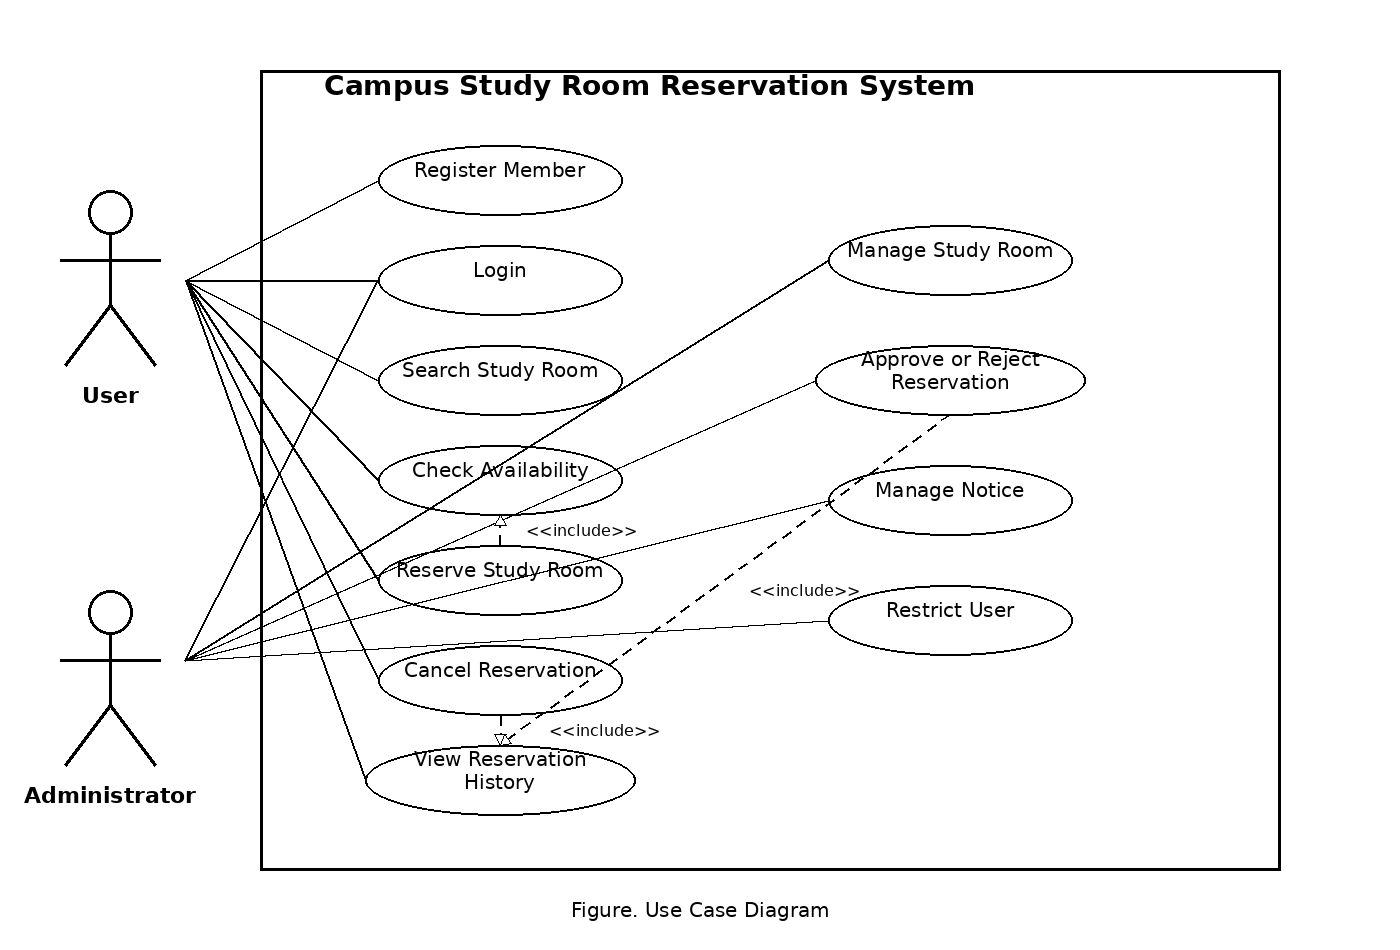
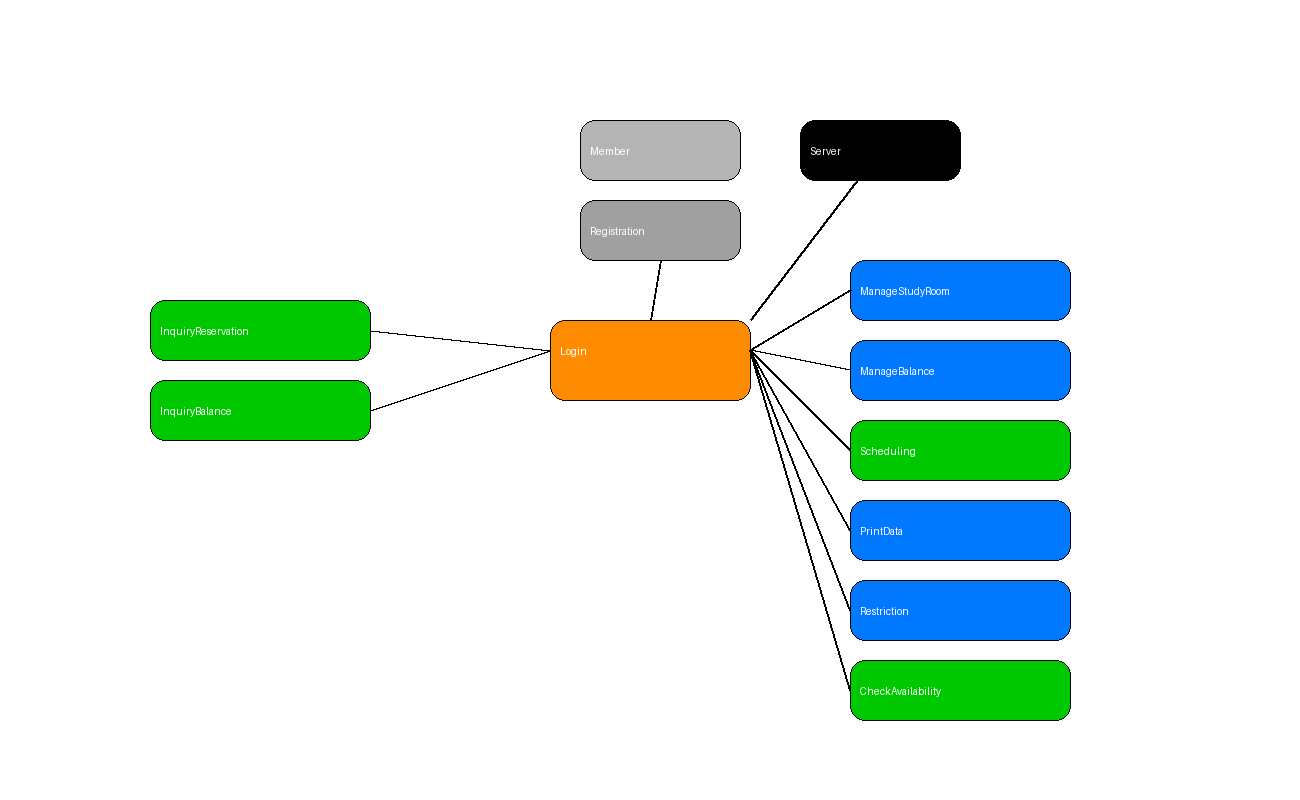
Add files via upload

diff --git a/Design_22212039_강명구.md b/Design_22212039_강명구.md
@@ -1,0 +1,200 @@
+# Campus Study Room Reservation System
+## Design
+
+### Student No
+22212039
+
+### Name
+강명구
+
+### E-Mail
+example@email.com
+
+---
+
+# [ Revision history ]
+
+| Revision date | Version # | Description | Author |
+|---|---|---|---|
+| 2026/05/26 | 1.00 | 초기 버전 | 강명구 |
+| 2026/05/26 | 1.01 | 클래스 관계 설정 | 강명구 |
+| 2026/05/26 | 1.02 | 기능 수정 | 강명구 |
+
+---
+
+# = Contents =
+
+1. Introduction  
+2. Class diagram  
+3. Sequence diagram  
+4. State machine diagram  
+5. Implementation requirements  
+6. Glossary  
+7. References  
+
+---
+
+# 1. Introduction
+
+대학 내 스터디룸은 팀 프로젝트, 시험공부, 발표 준비 등 다양한 학습 활동을 위해 사용된다. 그러나 기존 방식은 스터디룸의 사용 가능 여부를 직접 확인해야 하거나, 예약 시간이 중복되는 문제가 발생할 수 있다. 이러한 문제를 해결하기 위해 캠퍼스 스터디룸 예약 시스템을 설계하게 되었다.
+
+이 시스템은 사용자가 원하는 날짜와 시간에 예약 가능한 스터디룸을 검색하고, 예약을 진행하며, 자신의 예약 내역을 확인하거나 취소할 수 있도록 한다. 또한 관리자는 스터디룸 정보 관리, 예약 승인 및 거절, 공지사항 관리, 사용자 제한 등의 기능을 수행할 수 있다.
+
+본 문서는 Analysis 이후 진행되는 Design 단계에 대한 문서이다. 실제 System 구현에 직접적으로 관여하는 요소들의 구조를 확정하고, Class Diagram, Sequence Diagram, State Machine Diagram, Implementation Requirements 등을 구체적으로 정의한다. 본 문서의 세부 내용은 실제 Java 기반 구현 시 소스코드의 구조와 기능 흐름에 반영되는 것을 목적으로 한다.
+
+---
+
+# 2. Class diagram
+
+아래의 그림은 시스템의 Class Diagram을 표현한 그림이다.
+
+![Class Diagram](./final_class_diagram.png)
+
+아래의 표는 위의 Class Diagram에서 표현한 Class들에 대한 설명이다.
+
+
+| Class Name | Explanation |
+|---|---|
+| Login | 시스템을 실행한 이후 사용자가 가장 먼저 접근하게 되는 클래스이다. 사용자가 입력한 ID와 Password 값을 전달받아 회원 정보를 확인하고, 로그인 성공 여부를 판별한다. 로그인에 성공하면 사용자의 권한에 맞는 Main 화면으로 이동시키고, 로그인에 실패하면 오류 메시지를 출력한다. 또한 관리자 계정과 일반 회원 계정을 구분하여 서로 다른 기능 접근 권한을 제공한다. |
+| Registration | 회원가입 기능을 담당하는 클래스이다. 사용자가 입력한 학번, 비밀번호, 이름, 학과, 이메일 등의 정보를 전달받아 회원가입 절차를 진행한다. 회원가입 과정에서 ID 중복 여부를 검사하며, 비밀번호 확인 입력값과 일치 여부도 함께 검사한다. 모든 조건이 정상적으로 충족되면 Server 클래스에 회원 정보를 저장하고 회원가입 완료 메시지를 출력한다. |
+| Member | 시스템을 사용하는 회원들의 기본 정보를 저장하는 클래스이다. 회원의 ID, Password, 이름, 학과, 이메일, 권한 등의 Attribute를 가진다. 로그인 기능이나 예약 기능에서 사용자의 정보를 참조할 때 해당 클래스의 객체를 사용한다. 또한 일반 회원과 관리자를 구분하기 위한 권한 정보도 포함된다. |
+| Server | 실제 네트워크 서버를 직접 구현하지 않는 대신 서버와 유사한 역할을 수행하는 클래스이다. 회원 정보, 스터디룸 정보, 예약 정보, 공지사항 정보를 저장하고 관리한다. 다른 기능 클래스들은 필요한 데이터를 요청할 때 Server 클래스를 통해 정보를 가져온다. 시스템 전체 데이터의 저장소 역할을 수행하는 핵심 클래스이다. |
+| StudyRoom | 캠퍼스 내 스터디룸에 대한 정보를 저장하는 클래스이다. 스터디룸 번호, 위치, 최대 수용 인원, 예약 가능 여부 등의 Attribute를 가진다. SearchRoom 클래스나 Reservation 클래스는 해당 클래스의 정보를 사용하여 예약 가능한 스터디룸을 사용자에게 제공한다. 관리자는 이 클래스의 데이터를 수정하여 새로운 스터디룸을 추가하거나 기존 정보를 변경할 수 있다. |
+| SearchRoom | 사용자가 원하는 날짜, 시간, 인원 수 조건에 맞는 스터디룸을 검색하는 기능을 담당하는 클래스이다. 사용자가 입력한 조건을 기반으로 Server 클래스에 저장된 스터디룸 정보를 조회한다. 검색 결과에서는 예약 가능한 스터디룸과 이미 예약된 스터디룸을 구분하여 사용자에게 출력한다. 또한 조건에 맞는 스터디룸이 없는 경우에는 관련 메시지를 출력한다. |
+| CheckAvailability | 특정 스터디룸의 예약 가능 시간을 확인하는 기능을 담당하는 클래스이다. 사용자가 스터디룸을 선택하면 해당 클래스는 예약 데이터를 조회하여 현재 예약 가능한 시간대와 이미 예약된 시간대를 구분하여 출력한다. 예약 가능한 시간은 초록색과 같은 방식으로 표시하고, 예약이 완료된 시간은 다른 색으로 표시하여 사용자가 쉽게 구분할 수 있도록 한다. |
+| Reservation | 사용자가 스터디룸 예약을 진행할 때 사용하는 클래스이다. 선택한 스터디룸, 날짜, 시간대, 사용 목적 등의 정보를 저장하며 예약 절차를 수행한다. 예약 과정에서 중복 예약 여부를 검사하고, 이미 예약된 시간인 경우 예약을 제한한다. 예약이 성공적으로 완료되면 Server 클래스에 예약 정보를 저장하고 예약 완료 메시지를 출력한다. |
+| ReservationHistory | 로그인한 사용자의 예약 내역을 불러와 화면에 출력하는 클래스이다. 사용자는 이 기능을 통해 자신이 예약한 스터디룸 목록과 예약 상태를 확인할 수 있다. 또한 예약 시간이 지나지 않은 경우 예약 취소 기능을 수행할 수 있다. 예약 취소가 완료되면 해당 예약 상태를 변경하고 사용자 화면에 변경된 정보를 다시 출력한다. |
+| ManageStudyRoom | 관리자만 사용할 수 있는 스터디룸 관리 기능을 담당하는 클래스이다. 관리자는 새로운 스터디룸을 등록하거나 기존 스터디룸의 위치, 인원 수, 사용 가능 여부 등을 수정할 수 있다. 또한 사용하지 않는 스터디룸을 삭제하는 기능도 수행한다. 수정된 정보는 Server 클래스에 저장되어 시스템 전체에 반영된다. |
+| ManageNotice | 관리자가 공지사항을 등록, 수정, 삭제하는 기능을 담당하는 클래스이다. 시스템 메인 화면에 출력되는 공지사항 정보를 관리하며, 사용자들은 해당 공지사항을 통해 스터디룸 사용 관련 안내사항을 확인할 수 있다. 관리자는 새로운 공지를 작성하거나 기존 공지를 수정 및 삭제할 수 있다. |
+| RestrictUser | 예약 규정을 반복적으로 위반한 사용자에게 제한을 부여하는 기능을 담당하는 클래스이다. 노쇼(No-show) 또는 부적절한 예약 사용 기록이 누적된 사용자를 일정 기간 동안 예약 불가능 상태로 변경한다. 제한이 적용된 사용자는 예약 기능을 사용할 수 없으며, 관리자만 제한을 해제할 수 있다. |
+
+
+---
+
+# 3. Sequence diagram
+
+아래에 나오는 그림들은 Analysis에서 표현한 기능들을 Sequence Diagram으로 표현한 그림들이다.
+
+## 3.1 Login Sequence Diagram
+
+![Login Sequence Diagram](./seq_1_login.png)
+
+위의 그림은 시스템 실행 후 로그인 기능을 수행할 때를 표현한 Sequence Diagram이다. 사용자는 ID와 Password를 입력하고 LoginUI를 통해 Login 클래스에 로그인 검사를 요청한다. Login 클래스는 Server에 저장되어 있는 회원 정보를 조회하고, 입력한 정보가 일치하면 Main Screen을 보여준다. 정보가 일치하지 않으면 Error Message를 출력한다.
+
+## 3.2 Registration Sequence Diagram
+
+![Registration Sequence Diagram](./seq_2_registration.png)
+
+위의 그림은 시스템의 기능 중 회원가입에 대한 Sequence Diagram이다. 사용자가 Register 버튼을 누르면 RegistrationUI가 실행되고, 사용자는 학번, 비밀번호, 이름, 학과, 이메일 등의 정보를 입력한다. Registration 클래스는 ID 중복 여부를 확인한 후 문제가 없으면 Server에 회원 정보를 저장한다. 입력값에 문제가 있으면 Error Message를 출력한다.
+
+## 3.3 Search Study Room / Check Availability Sequence Diagram
+
+![Search Study Room / Check Availability Sequence Diagram](./seq_3_search_availability.png)
+
+위의 그림은 스터디룸 조회 및 예약 가능 시간 확인 기능에 대한 Sequence Diagram이다. 사용자는 날짜, 시간, 인원 조건을 입력하고 Search 기능을 실행한다. SearchRoom 클래스는 Server에서 스터디룸 정보와 예약 정보를 가져와 사용 가능한 스터디룸과 시간대를 계산한 뒤 사용자 화면에 출력한다.
+
+## 3.4 Reserve Study Room Sequence Diagram
+
+![Reserve Study Room Sequence Diagram](./seq_4_reserve.png)
+
+위의 그림은 스터디룸 예약 기능에 대한 Sequence Diagram이다. 사용자가 원하는 스터디룸과 시간대를 선택하고 예약 버튼을 누르면 Reservation 클래스가 중복 예약 여부를 확인한다. 해당 시간대가 예약 가능하면 예약 정보를 Server에 저장하고 예약 완료 메시지를 출력한다. 이미 예약된 시간인 경우 예약 실패 메시지를 출력한다.
+
+## 3.5 View Reservation History / Cancel Sequence Diagram
+
+![View Reservation History / Cancel Sequence Diagram](./seq_5_history_cancel.png)
+
+위의 그림은 예약 내역 조회 및 예약 취소 기능에 대한 Sequence Diagram이다. 사용자가 My Page 메뉴를 선택하면 ReservationHistory 클래스는 현재 로그인한 사용자의 예약 정보를 Server에서 가져와 출력한다. 사용자가 특정 예약을 취소하면 해당 예약의 상태가 취소로 변경되고 취소 완료 메시지가 출력된다.
+
+## 3.6 Administrator Management Sequence Diagram
+
+![Administrator Management Sequence Diagram](./seq_6_admin_manage.png)
+
+위의 그림은 관리자 기능에 대한 Sequence Diagram이다. 관리자는 관리자 메뉴에서 스터디룸 관리, 공지사항 관리, 사용자 제한 기능을 선택할 수 있다. 시스템은 먼저 관리자 권한을 확인하고, 권한이 확인된 경우 해당 기능을 수행한다. 권한이 없는 사용자는 기능을 사용할 수 없다.
+
+---
+
+# 4. State machine diagram
+
+아래의 그림들은 시스템의 주요 기능에 대한 State Machine Diagram이다.
+
+## 4.1 Login State Machine Diagram
+
+![Login State Machine Diagram](./state_1_login.png)
+
+위의 그림은 로그인 과정의 상태 변화를 나타낸다. 시스템이 실행되면 로그인 화면이 나타나고, 사용자가 ID와 Password를 입력한다. 입력 정보가 올바르면 Main Screen으로 이동하고, 올바르지 않으면 Error Message를 출력한 후 다시 입력 상태로 돌아간다.
+
+## 4.2 Reservation State Machine Diagram
+
+![Reservation State Machine Diagram](./state_2_reservation.png)
+
+위의 그림은 스터디룸 예약 과정의 상태 변화를 나타낸다. 사용자는 스터디룸을 검색하고 원하는 날짜와 시간을 선택한다. 시스템은 해당 시간대가 예약 가능한지 확인한다. 예약 가능하면 예약 정보를 저장하고 Reservation Complete 상태로 이동한다. 예약할 수 없는 경우 다시 시간 선택 상태로 돌아간다.
+
+## 4.3 Reservation History State Machine Diagram
+
+![Reservation History State Machine Diagram](./state_3_history_cancel.png)
+
+위의 그림은 예약 내역 조회 및 취소 과정의 상태 변화를 나타낸다. 사용자는 My Page에서 자신의 예약 내역을 확인할 수 있다. 취소할 예약이 있는 경우 Cancel을 선택하고 시스템은 예약 상태를 변경한다. 취소하지 않는 경우 예약 내역 확인 상태에서 종료된다.
+
+## 4.4 Administrator Management State Machine Diagram
+
+![Administrator Management State Machine Diagram](./state_4_admin.png)
+
+위의 그림은 관리자 기능의 상태 변화를 나타낸다. 관리자가 로그인하면 시스템은 권한을 확인한다. 권한이 없으면 접근이 거부되고, 권한이 있으면 관리자 메뉴로 이동한다. 관리자는 스터디룸 관리, 공지사항 관리, 사용자 제한 기능을 수행할 수 있다.
+
+---
+
+# 5. Implementation requirements
+
+Campus Study Room Reservation System을 구동하기 위해 필요한 요구사항은 아래와 같다.
+
+## 1) Hardware Requirements
+
+| 항목 | 내용 |
+|---|---|
+| CPU | Intel Pentium IV 이상 |
+| RAM | 2GB 이상 |
+| HDD or SSD | 10GB 이상의 여유 공간 |
+| Network | 기본 기능은 네트워크 연결 없이도 가능하나, 추후 서버 연동 시 네트워크 필요 |
+
+## 2) Software Requirements
+
+| 항목 | 내용 |
+|---|---|
+| Operating System | Windows 10 이상 |
+| Implementation Language | Java JDK 1.8 이상 |
+| IDE | Eclipse 또는 IntelliJ IDEA |
+| UI | Java Swing |
+| Data Storage | SQLite 또는 텍스트 파일 기반 저장 방식 |
+
+## 3) Nonfunctional requirements
+
+해당 시스템은 Java 기반 GUI 프로그램으로 구현한다. 사용자가 로그인, 회원가입, 스터디룸 조회, 예약, 예약 내역 조회, 예약 취소 기능을 쉽게 사용할 수 있도록 직관적인 화면을 제공한다.
+
+예약 정보는 데이터베이스 또는 파일에 저장되며, 동일한 날짜와 시간대에 같은 스터디룸이 중복 예약되지 않도록 검사한다. 관리자는 일반 사용자와 구분되어야 하며, 관리자 권한이 있는 사용자만 스터디룸 관리, 공지사항 관리, 사용자 제한 기능을 사용할 수 있다.
+
+---
+
+# 6. Glossary
+
+용어사전에 대해선 다음의 표와 같다.
+
+| Terms | Description |
+|---|---|
+| Class Diagram | 객체지향형 시스템 설계에서 클래스들의 구조와 관계를 도식으로 정의한 것이다. |
+| Sequence Diagram | 객체 간 메시지 흐름과 시간 순서를 표현하는 UML 다이어그램이다. |
+| State Machine Diagram | 시스템 또는 객체가 가지는 상태와 상태 전이를 표현하는 UML 다이어그램이다. |
+| GUI | 사용자가 버튼, 입력창, 표와 같은 화면 요소를 통해 시스템을 사용할 수 있도록 만든 그래픽 사용자 인터페이스이다. |
+| Reservation | 사용자가 특정 날짜와 시간대에 스터디룸을 이용하기 위해 등록한 예약 정보이다. |
+| Time Slot | 스터디룸 예약이 가능한 일정 단위의 시간 구간을 의미한다. |
+| Administrator | 스터디룸 정보 관리, 예약 승인 및 거절, 공지사항 관리, 사용자 제한 기능을 수행하는 관리자이다. |
+| Server | 회원 정보, 스터디룸 정보, 예약 정보 등을 저장하고 관리하는 역할을 수행하는 클래스이다. |
+| Database | 사용자 정보, 스터디룸 정보, 예약 정보, 공지사항 정보를 저장하고 관리하는 데이터 저장소이다. |
+
+---
+
+# 7. References
+
+- 소프트웨어 설계 강의자료
+- Java Swing Tutorial – https://docs.oracle.com/javase/tutorial/uiswing/
+- SQLite Documentation – https://www.sqlite.org/docs.html
+- UML Diagram Tutorial – https://www.uml-diagrams.org/
